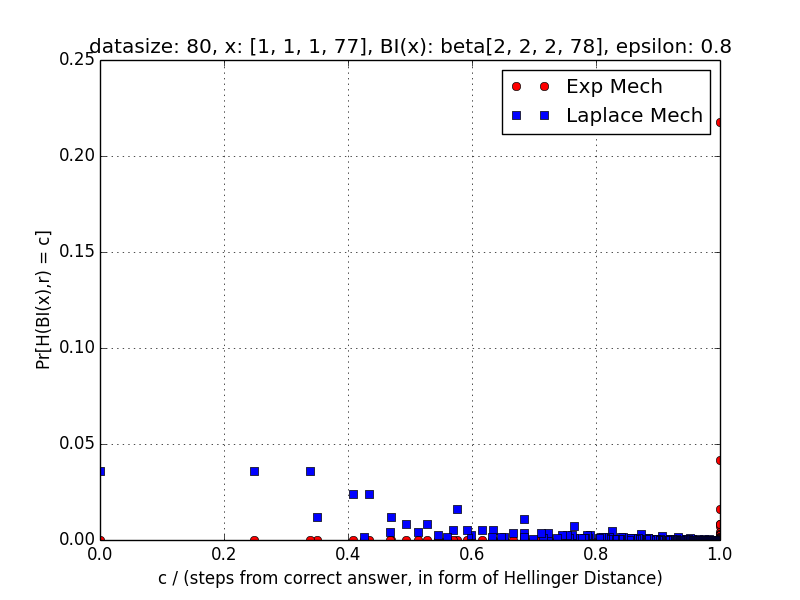
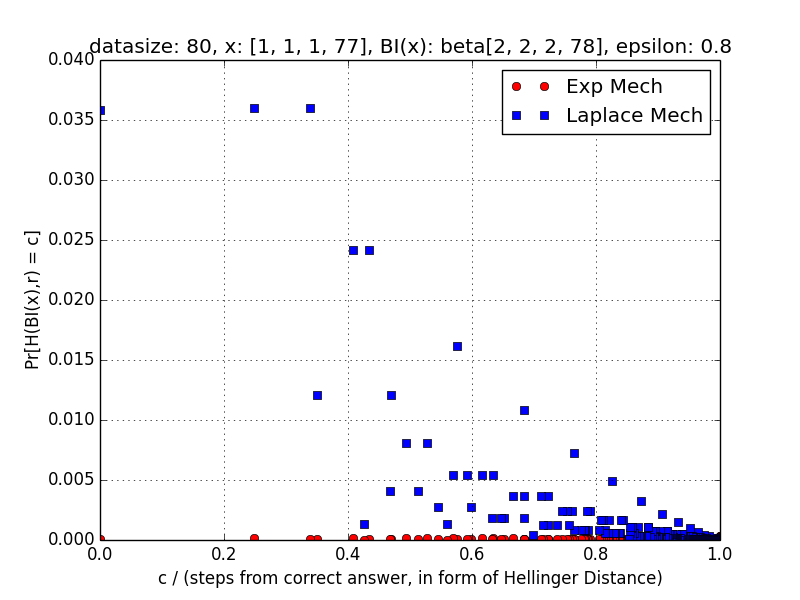
fix experiment bugs

diff --git a/dp_bayesian_inference_model_with_dirichlet_prior_accuracy_study.py b/dp_bayesian_inference_model_with_dirichlet_prior_accuracy_study.py
@@ -673,10 +673,10 @@ def accuracy_study_discrete(sample_size,epsilon,delta,prior,observation):
 			candidates_for_print.append(c._alphas)
 		probabilities_lap_by_steps.append(pro_i)
 		# print "Pr[H(BI(x), r) = " + str(-Bayesian_Model._candidate_scores[class_i[0]]) + " ] = " + str(pro_i) + " (r = " + str(candidates_for_print) +")"
-
-	plt.plot(steps, probabilities_exp_by_steps, 'ro', label=('Exp Mech'))
+#
+	plt.plot(steps[200:], probabilities_exp_by_steps[200:], 'ro', label=('Exp Mech'))
 	# plt.plot(T, approximate_bounds, 'g^', label=('Expmech_SS zApproximate Bound'))
-	plt.plot(steps, probabilities_lap_by_steps, 'bs', label=('Laplace Mech'))
+	plt.plot(steps[200:], probabilities_lap_by_steps[200:], 'bs', label=('Laplace Mech'))
 	plt.xlabel("c / (steps from correct answer, in form of Hellinger Distance)")
 	plt.ylabel("Pr[H(BI(x),r) = c]")
 	plt.title("datasize: "+ str(sample_size) + ", x: "+ str(observation) + ", BI(x): beta"+ str(Bayesian_Model._posterior._alphas) + ", epsilon: "+ str(epsilon))
@@ -699,23 +699,23 @@ def accuracy_study_discrete(sample_size,epsilon,delta,prior,observation):
 
 if __name__ == "__main__":
 
-	sample_size = 98
+	sample_size = 80
 	epsilon = 0.8
 	delta = 0.00005
-	prior = Dir([1,1])
-	observation = [49,49]
-	Bayesian_Model = BayesInferwithDirPrior(prior, sample_size, epsilon, delta)
+	prior = Dir([1,1,1,1])
+	observation = [1,1,1,77]
+	# Bayesian_Model = BayesInferwithDirPrior(prior, sample_size, epsilon, delta)
 
-	# accuracy_study_discrete(sample_size,epsilon,delta,prior,observation)
-	# accuracy_study_exponential_mechanism_SS(sample_size,epsilon,delta,prior,observation)
-	# accuracy_study_laplace(sample_size,epsilon,delta,prior,observation)
-	# Tests the functioning of the module
+	accuracy_study_discrete(sample_size,epsilon,delta,prior,observation)
+	# # accuracy_study_exponential_mechanism_SS(sample_size,epsilon,delta,prior,observation)
+	# # accuracy_study_laplace(sample_size,epsilon,delta,prior,observation)
+	# # Tests the functioning of the module
 
-	#print Dir([50,50]) - Dir([47,53])
-	Bayesian_Model._set_observation(observation)
-	Bayesian_Model._experiments(10000)
+	# #print Dir([50,50]) - Dir([47,53])
+	# Bayesian_Model._set_observation(observation)
+	# Bayesian_Model._experiments(10000)
 
-	draw_error(Bayesian_Model._accuracy,Bayesian_Model, "order-2-size-98-runs-1000-epsilon-08-hellinger-delta000005-observation202020-box.png")
+	# draw_error(Bayesian_Model._accuracy,Bayesian_Model, "order-2-size-98-runs-1000-epsilon-08-hellinger-delta000005-observation202020-box.png")
 
 	# draw_error_l1(Bayesian_Model._accuracy_l1,Bayesian_Model, "order-2-size-100-runs-1000-epsilon-08-l1norm-delta000005box.png")
 	
